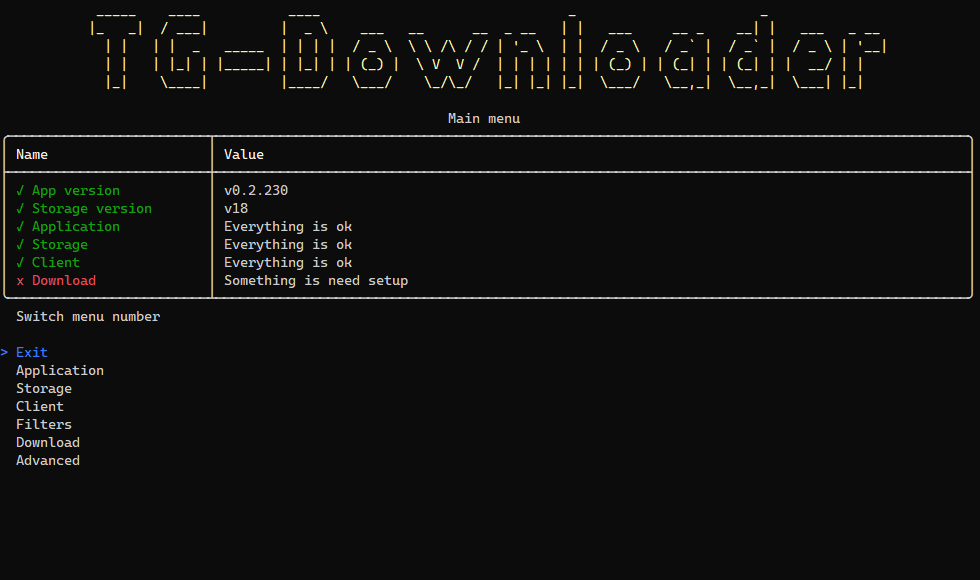
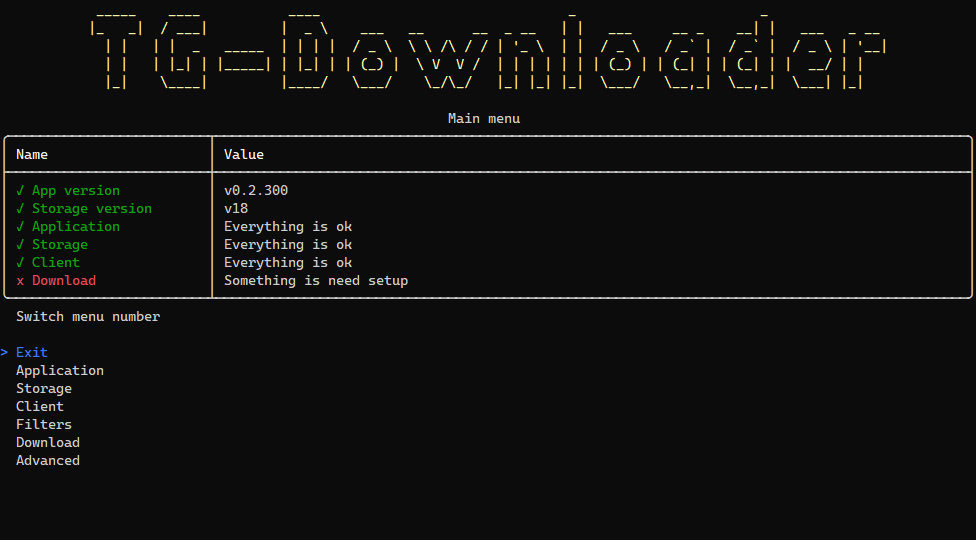
Updated documentation

Changed region(s): [[0.0, 0.0, 1.0, 0.8593]]

diff --git a/CHANGELOG-RUS.md b/CHANGELOG-RUS.md
@@ -8,14 +8,26 @@
 - Справочное меню
 - Русская локализация
 
-## [0.2.270] - 2023-06-22
-### Исправлено
+## [0.2.300] - 2023-06-27
+### Исправлено в TgDownloaderConsole
+- Исправлены ошибки с файлом TgDownloader.session
+### Исправлено в тестах
 - Исправлены ошибки в тестах
 ### Добавлено в TgDownloaderWinDesktop
-- Редактирование настроек программы
+- Редактирование настроек приложения
 - Просмотр/редактирование настроек клиента
-- Просмотр прокси
-- Просмотр источников и скачивание
+- Клиент
+    - Подключение/отключение
+    - Скрыть пароль
+    - Просмотр состояния и исключений
+- Просмотр прокси-серверов
+- Просмотр источников и загрузка
+    - Проверка готовности клиента
+    - Загрузка из хранилища
+    - Загрузка из Telegram
+    - Очистить представление
+    - Просмотр состояния и исключений
+    - Загрузить медиа
 
 ## [0.2.240] - 2023-06-14
 ### Исправлено в TgDownloaderConsole

diff --git a/CHANGELOG.md b/CHANGELOG.md
@@ -8,14 +8,26 @@ and this project adheres to [Semantic Versioning](https://semver.org/spec/v2.0.0
 - Help menu
 - Russian localization
 
-## [0.2.270] - 2023-06-22
-### Fixed
+## [0.2.300] - 2023-06-27
+### Fixed in TgDownloaderConsole
+- Fixed errors with file TgDownloader.session
+### Fixed in Tests
 - Fixed errors in tests
 ### Added in TgDownloaderWinDesktop
 - Edit app settings
 - View/edit client settings
+- Client
+    - Connect/Disconnect
+    - Hide password
+    - State and exception view
 - View proxies
 - View sources and download
+    - Check client ready
+    - Load from Storage
+    - Load from Telegram
+    - Clear view
+    - State and exception view
+    - Download media
 
 ## [0.2.230] - 2023-06-13
 ### Fixed in TgDownloaderConsole

diff --git a/SCREENSHOTS.md b/SCREENSHOTS.md
@@ -1,5 +1,12 @@
 # Screenshots
 
+## [0.2.300] - 2023-06-27
+### Added in TgDownloaderWinDesktop
+<p align="center"><img src="Assets/v0.2.300/TgDownloaderWinDesktop.png"></p>
+<p align="center"><img src="Assets/v0.2.300/TgDownloaderWinDesktop_Client.png"></p>
+<p align="center"><img src="Assets/v0.2.300/TgDownloaderWinDesktop_Proxies.png"></p>
+<p align="center"><img src="Assets/v0.2.300/TgDownloaderWinDesktop_Sources.png"></p>
+
 ## [0.2.270] - 2023-06-22
 ### Added in TgDownloaderWinDesktop
 <p align="center"><img src="Assets/v0.2.270/TgDownloaderWinDesktop.png"></p>

diff --git a/README-RUS.md b/README-RUS.md
@@ -8,6 +8,8 @@
 ![GitHub license](https://img.shields.io/github/license/DamianMorozov/TgDownloader?style=social)
 
 ## <p align="center"><img src="Assets/TgDownloaderWinDesktop.png"></p>
+## <p align="center"><img src="Assets/TgDownloaderWinDesktop_Client.png"></p>
+## <p align="center"><img src="Assets/TgDownloaderWinDesktop_Sources.png"></p>
 
 ## <p align="center"><img src="Assets/TgDownloaderConsole.png"></p>
 

diff --git a/README.md b/README.md
@@ -8,6 +8,8 @@
 ![GitHub license](https://img.shields.io/github/license/DamianMorozov/TgDownloader?style=social)
 
 ## <p align="center"><img src="Assets/TgDownloaderWinDesktop.png"></p>
+## <p align="center"><img src="Assets/TgDownloaderWinDesktop_Client.png"></p>
+## <p align="center"><img src="Assets/TgDownloaderWinDesktop_Sources.png"></p>
 
 ## <p align="center"><img src="Assets/TgDownloaderConsole.png"></p>
 
